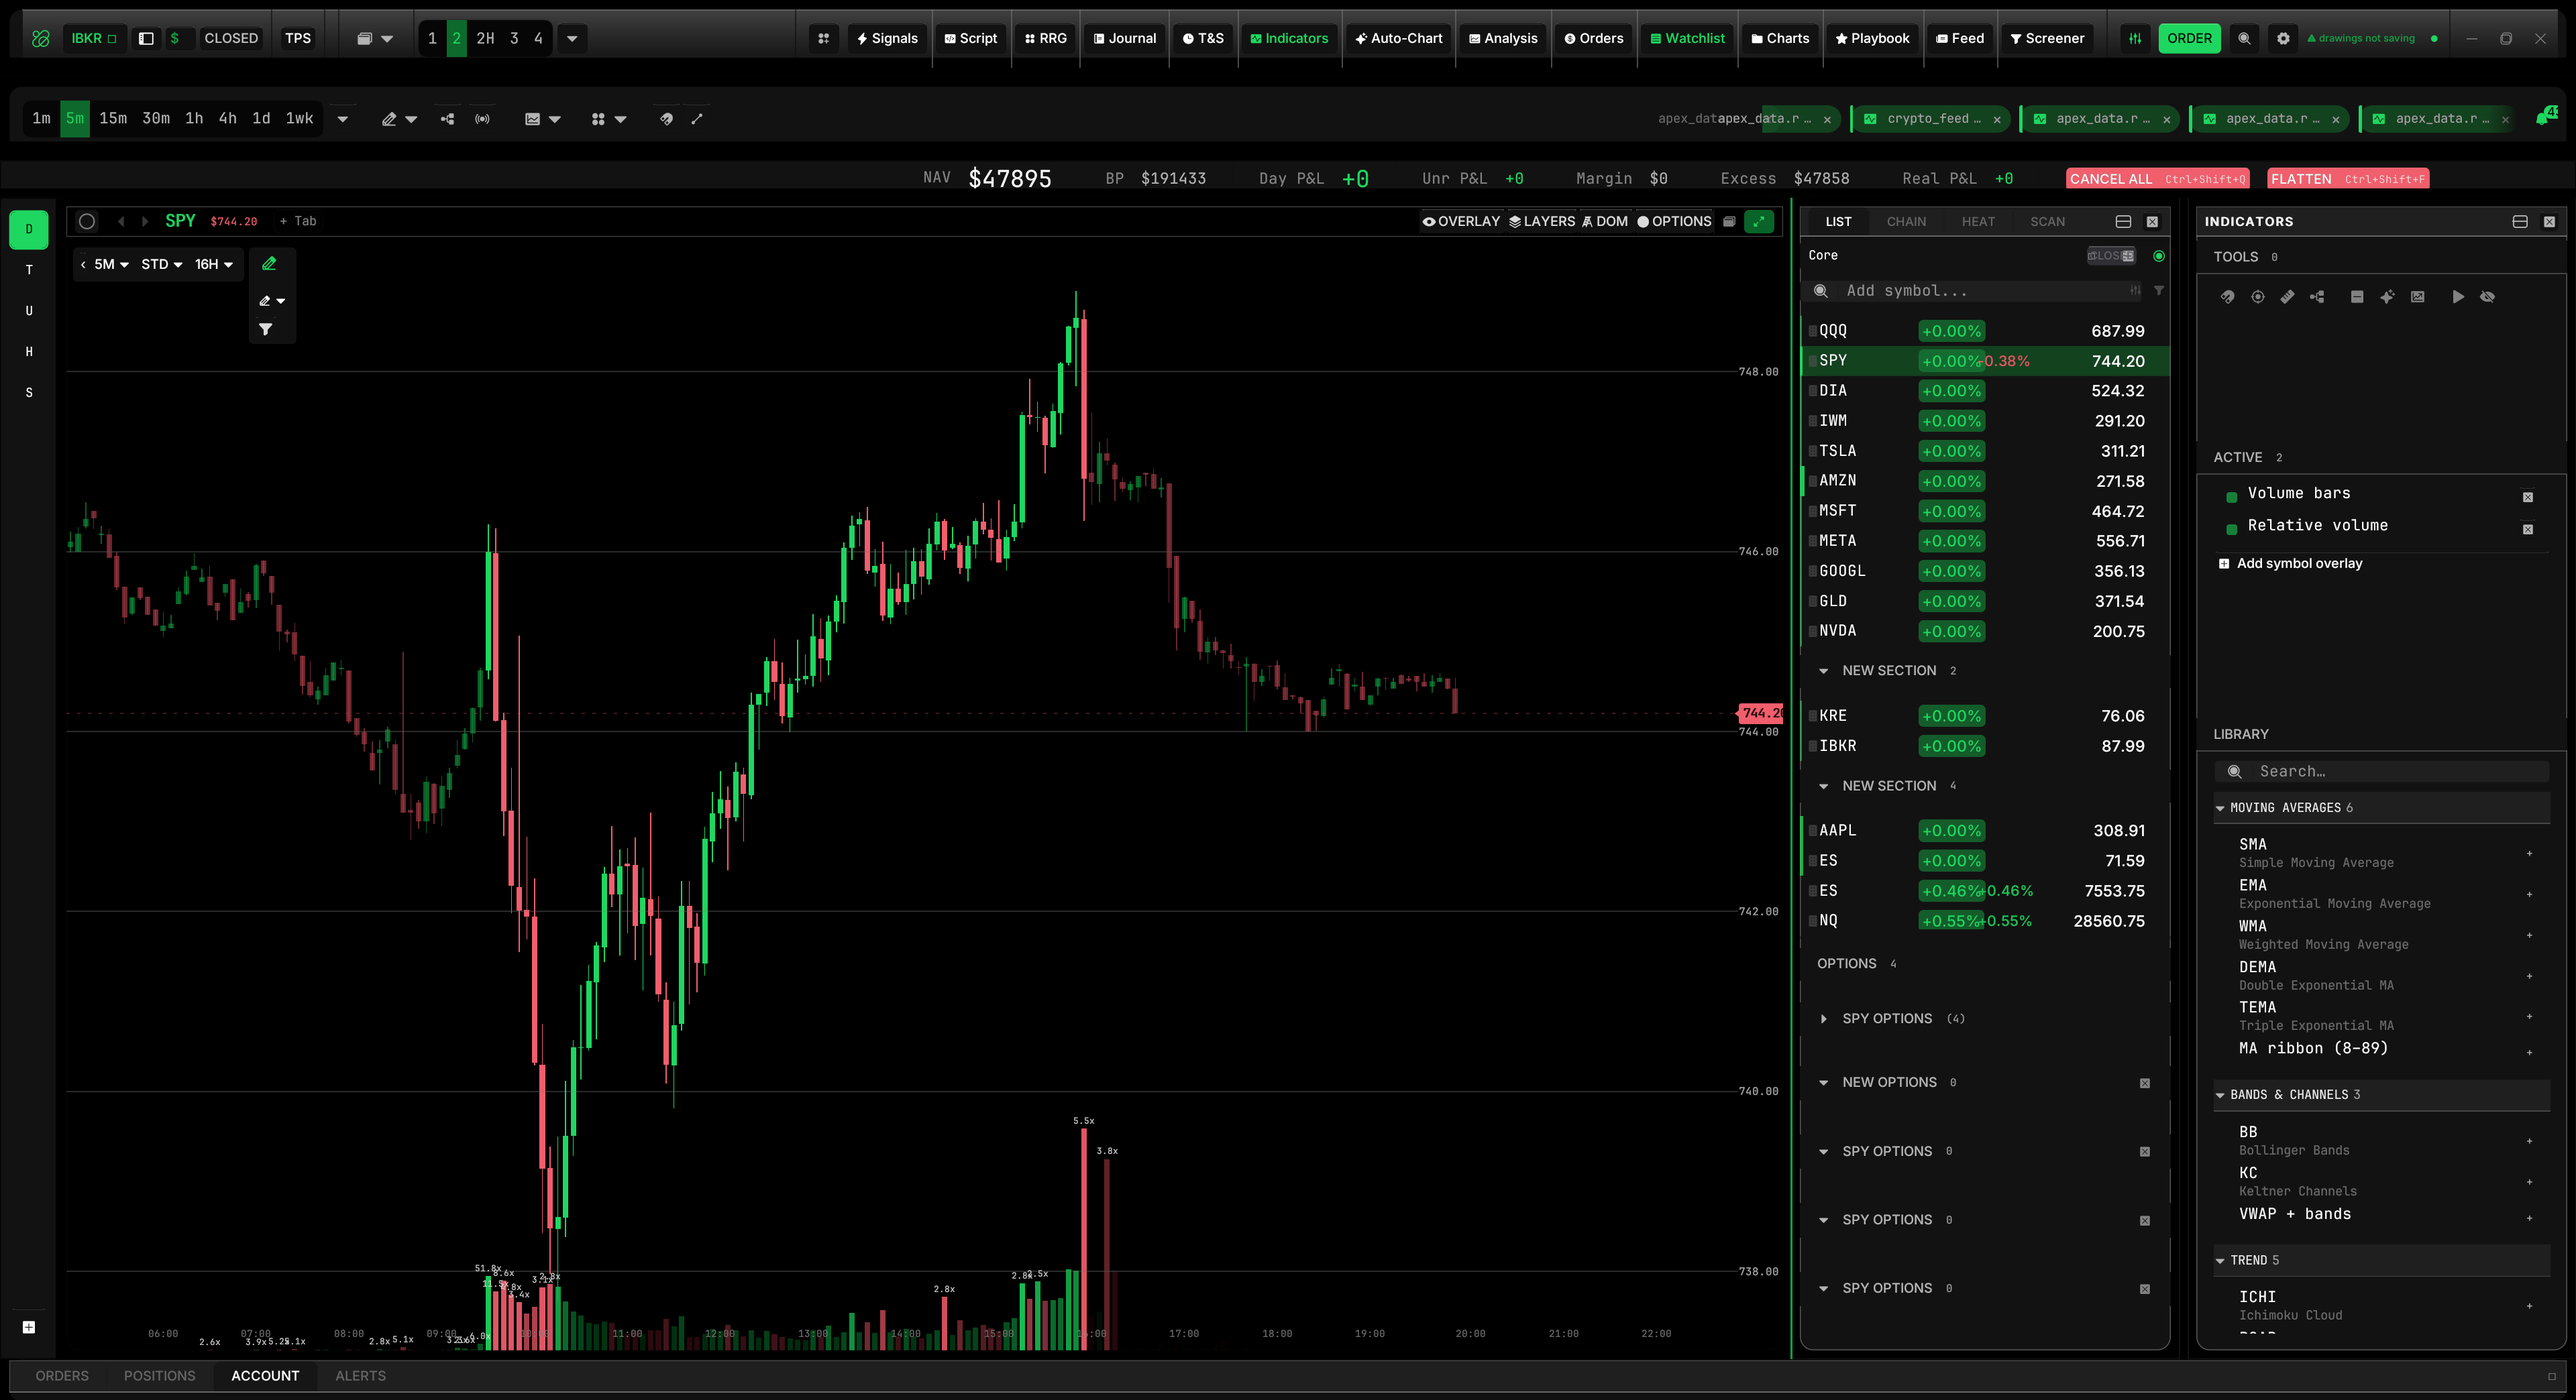
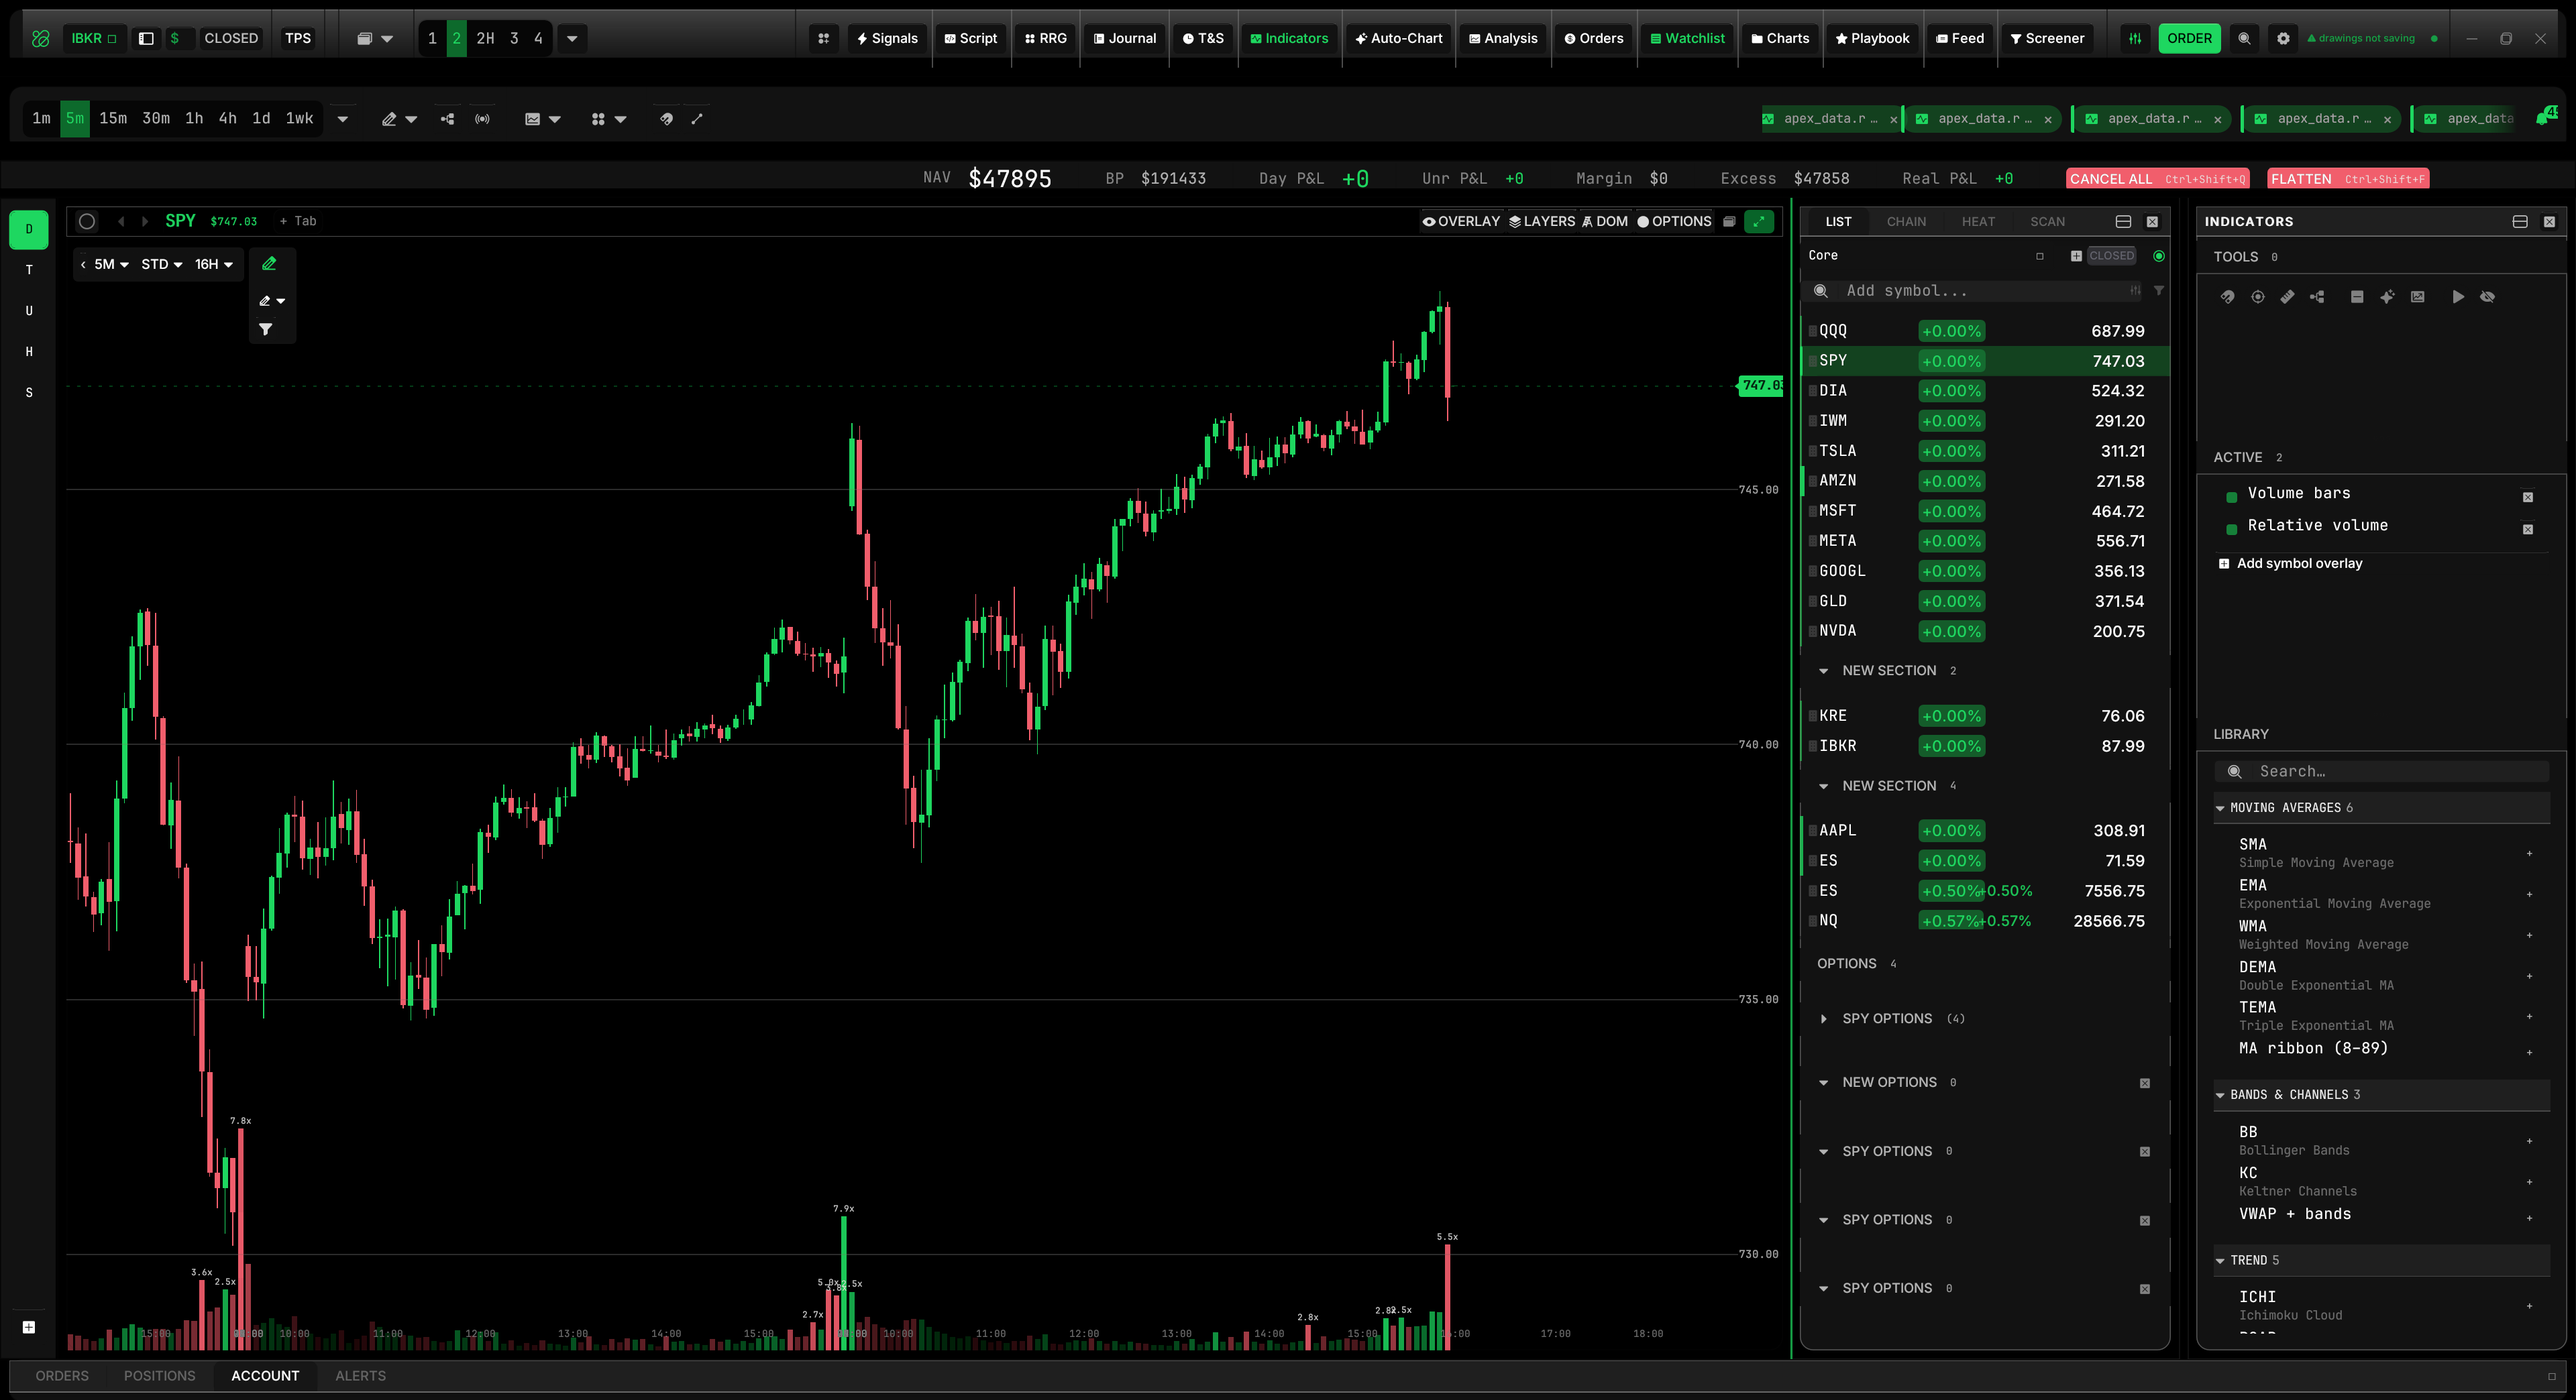
T5/D-3: derive the watchlist header's right reservation (was 3 widgets overlapping)
The highest-frequency defect from the T5 pass — visible in ALL SIX
systems. Cropping the pixels showed it was not clipping, as the
certification record guessed, but THREE WIDGETS PAINTING ON TOP OF EACH
OTHER: the selector's caret, the "+" button and the session badge all
stacked into ~30px, reading `▼CLOSED+`.

Root cause, watchlist_panel.rs — both branches of the header row pinned
their reservation for everything to the right:

    DropdownOwned .width(ui.available_width() - 60.0)
    Input         .width(ui.available_width() - 50.0)

The cluster's real width is THEMED: the badge is a Button whose width
grows with the style's face, and the two icon buttons size from
IconPlacement::PanelHeader. 60px was sized once, for one font. Actual
need is ~85px, so the cluster overran and the later widgets drew over
the selector.

This is the Meridien NAV clip (4dfb792e) rotated 90° — same defect class
in the horizontal axis, and again invisible to every gate because both
numbers are individually legitimate and only their RELATIONSHIP is wrong.

Fixed by measuring rather than reserving a guess. `Button::intrinsic_width`
already exists for exactly this and shares `measure_content_w` with the
paint path, so a measurement cannot drift from the widget it measures.
Its own doc comment records the identical bug in the pane header's pinned
`ICON_BTN_W_LAYERS = 60.0` table — this is that bug's twin, so the tool
built for the first one cures the second unchanged.
[…]

diff --git a/src-tauri/src/chart/renderer/ui/panels/watchlist_panel.rs b/src-tauri/src/chart/renderer/ui/panels/watchlist_panel.rs
@@ -98,10 +98,44 @@ if is_spawn || watchlist.open {
                     // ── B) Watchlist selector + options toggle ──
                     ui.horizontal(|ui| {
                         ui.set_min_height(20.0);
+
+                        // ── The row's right-hand reservation: MEASURED, not pinned ──
+                        // This row lays a name control on the left against a
+                        // right-anchored cluster (session badge + options toggle),
+                        // with a "+" button between them. Both branches used to pin
+                        // that reservation (`available_width() - 60.0` / `- 50.0`),
+                        // sized once for one font. The cluster's real width is
+                        // THEMED — the badge grows with the style's face — so on the
+                        // wider styles it overran its slot and painted ON TOP of the
+                        // selector. The capture showed `▼CLOSED+` stacked into ~30px
+                        // in all six systems.
+                        //
+                        // `Button::intrinsic_width` exists for precisely this and
+                        // measures with the SAME font and gaps the paint path uses,
+                        // so a measurement and its widget cannot drift. Its own doc
+                        // records the identical bug in the pane header's pinned
+                        // `ICON_BTN_W_LAYERS = 60.0` table. This is that bug's twin;
+                        // same cure — derive, don't pin.
+                        const BADGE_MIN_W: f32 = 34.0;
+                        const BADGE_MIN_H: f32 = 14.0;
+                        let icon_btn_w = IconPlacement::PanelHeader.hit_px();
+                        let item_spacing = ui.spacing().item_spacing.x;
+                        let badge_w = Button::new(market_session().0)
+                            .variant(Variant::Chrome)
+                            .size(Size::Xs)
+                            .intrinsic_width(ui)
+                            .max(BADGE_MIN_W);
+                        // badge + gap + options toggle, plus the row spacing egui
+                        // inserts before each of the two widgets.
+                        let right_cluster_w =
+                            badge_w + gap_xs() + icon_btn_w + item_spacing * 2.0;
+                        // The "+" button only exists in the selector branch.
+                        let plus_w = icon_btn_w + item_spacing;
+
                         // Inline rename mode
                         if watchlist.watchlist_name_editing {
                             let resp = Input::new(&mut watchlist.watchlist_name_buf)
-                                .width(ui.available_width() - 50.0)
+                                .width(ui.available_width() - right_cluster_w)
                                 .font_size(10.0)
                                 .show(ui, t);
                             if resp.lost_focus || ui.input(|i| i.key_pressed(egui::Key::Enter)) {
@@ -126,7 +160,7 @@ if is_spawn || watchlist.open {
                                 .map(|(i, n)| (i, n.clone())).collect();
                             let (_, combo_resp) = super::super::inputs::select::DropdownOwned::new("wl_selector")
                                 .options(wl_opts)
-                                .width(ui.available_width() - 60.0)
+                                .width(ui.available_width() - right_cluster_w - plus_w)
                                 .font_size(9.0)
                                 .item_context_menu(|idx, ui| {
                                     let i = *idx;
@@ -202,7 +236,9 @@ if is_spawn || watchlist.open {
                                 .fill(badge_bg)
                                 .corner_radius(current().r_sm as f32)
                                 .stroke(egui::Stroke::NONE)
-                                .min_size(egui::vec2(34.0, 14.0)));
+                                // Same floor the reservation above measured against —
+                                // if these two ever disagree, the cluster overruns.
+                                .min_size(egui::vec2(BADGE_MIN_W, BADGE_MIN_H)));
                         });
                     });
                     // Handle deferred rename
